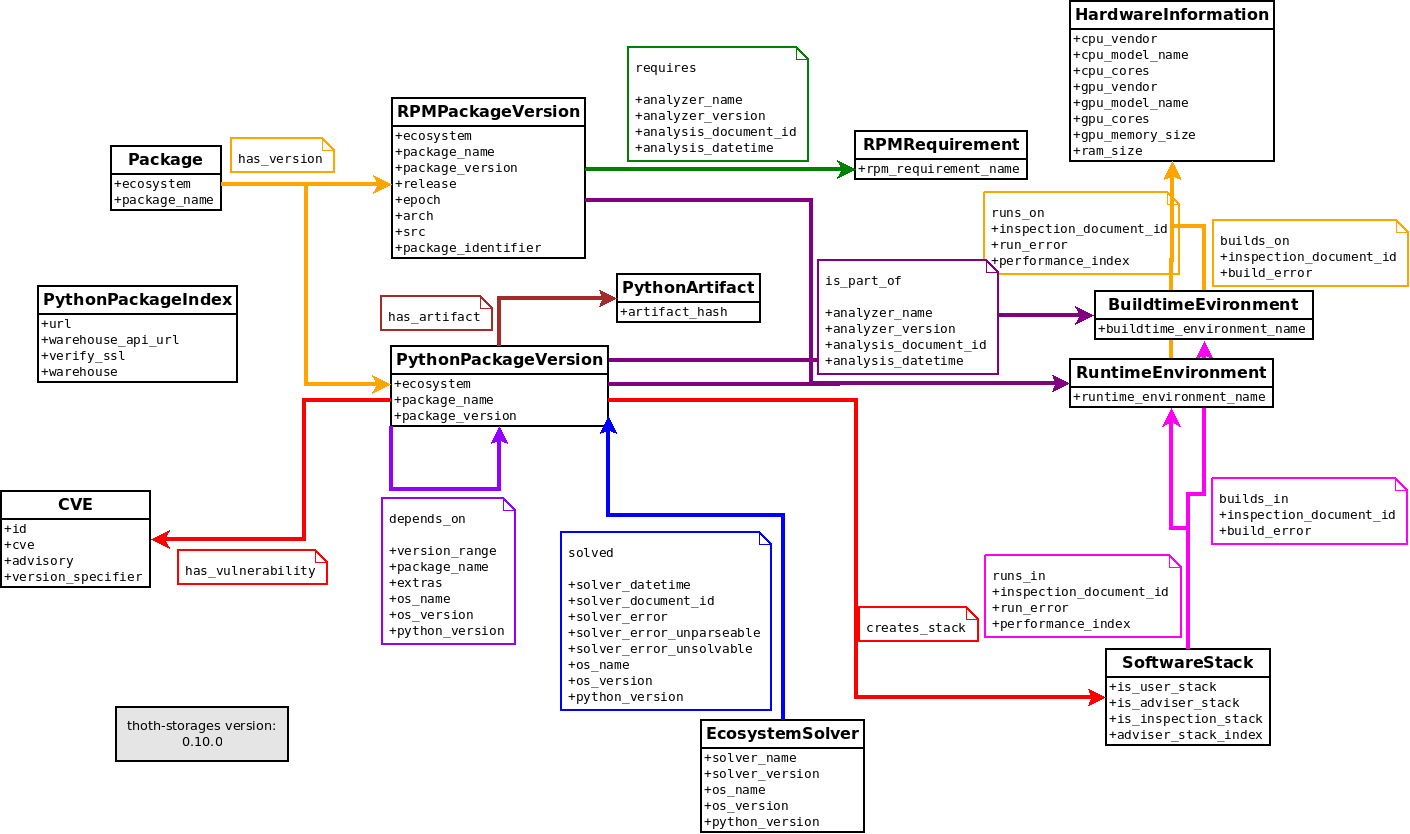
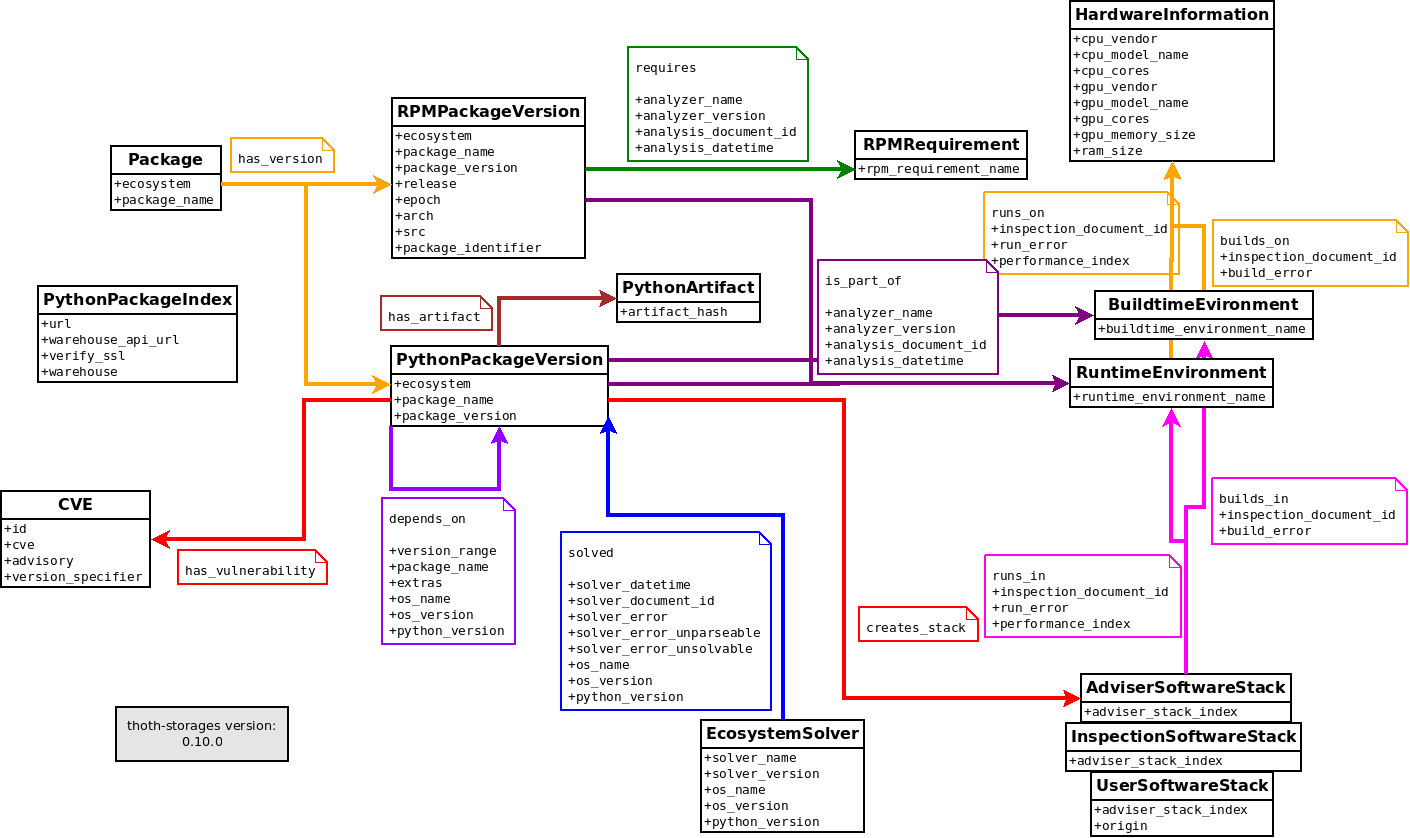
Distinguish different software stacks by their types

diff --git a/thoth/storages/graph/janusgraph.py b/thoth/storages/graph/janusgraph.py
@@ -71,7 +71,10 @@ from .models import RPMRequirement
 from .models import RuntimeEnvironment
 from .models import HardwareInformation
 from .models import Solved
-from .models import SoftwareStack
+from .models import AdviserSoftwareStack
+from .models import InspectionSoftwareStack
+from .models import UserSoftwareStack
+from .models import SoftwareStackBase
 from .models import CreatesStack
 
 # from .utils import enable_edge_cache
@@ -409,7 +412,7 @@ class GraphDatabase(StorageBase):
 
         return query
 
-    def get_software_stacks(self, packages: typing.List[tuple]) -> typing.List[SoftwareStack]:
+    def get_software_stacks(self, packages: typing.List[tuple]) -> typing.List[SoftwareStackBase]:
         """Get all stacks that include the given set of packages.
 
         Packages in stacks returned are superset of packages in the original set of
@@ -879,7 +882,7 @@ class GraphDatabase(StorageBase):
             is_adviser_stack: bool,
             is_inspection_stack: bool,
             adviser_stack_index: int = None
-    ) -> SoftwareStack:  # Ignore PyDocStyleBear
+    ) -> SoftwareStackBase:  # Ignore PyDocStyleBear
         """Create a software stack inside graph database from a Pipfile.lock."""
         only_one_stated = sum((
             int(is_user_stack),
@@ -895,10 +898,29 @@ class GraphDatabase(StorageBase):
                 "Index of adviser stack is allowed only for adviser stacks (is_adviser_stack should be set to True)"
             )
 
-        if is_adviser_stack is True and adviser_stack_index is None:
-            raise ValueError(
-                "Adviser stack index has to be set in case of adviser stacks"
-            )
+        software_stack_properties = {
+            "document_id": document_id
+        }
+        software_stack_class = None
+
+        if is_adviser_stack is True:
+            if adviser_stack_index is None:
+                raise ValueError(
+                    "Adviser stack index has to be set in case of adviser stacks"
+                )
+
+            software_stack_class = AdviserSoftwareStack
+            software_stack_properties["adviser_stack_index"] = adviser_stack_index
+
+        if is_user_stack:
+            # TODO: state origin in software stack properties.
+            software_stack_class = UserSoftwareStack
+
+        if is_inspection_stack:
+            software_stack_class = InspectionSoftwareStack
+
+        if software_stack_class is None:
+            raise ValueError("Unknown software stack type - should be at least one of user, inspection, adviser")
 
         def get_index_url(index_name: str):
             for source_index in pipfile_locked["_meta"]["sources"]:
@@ -927,13 +949,7 @@ class GraphDatabase(StorageBase):
             )
             python_packages.append(python_package_version)
 
-        software_stack = SoftwareStack.from_properties(
-            document_id=document_id,
-            is_user_stack=is_user_stack,
-            is_adviser_stack=is_adviser_stack,
-            is_inspection_stack=is_inspection_stack,
-            adviser_stack_index=adviser_stack_index,
-        )
+        software_stack = software_stack_class.from_properties(**software_stack_properties)
         software_stack.get_or_create(self.g)
 
         for python_package_version in python_packages:

diff --git a/thoth/storages/graph/models.py b/thoth/storages/graph/models.py
@@ -110,23 +110,34 @@ class BuildtimeEnvironment(VertexBase):
     # TODO: capture hashes of layers to be precise?
 
 
-class SoftwareStack(VertexBase):
-    """A software stack crated by packages in specific versions."""
-    # Only one of the following can be set at one time.
-    # That also means a SoftwareStack vertex with same document_ids can differ if is_adviser_stack
-    # and if is_user_stack is used.
-    is_user_stack = VertexProperty(properties.Boolean)
-    is_adviser_stack = VertexProperty(properties.Boolean)
-    is_inspection_stack = VertexProperty(properties.Boolean)
+class SoftwareStackBase(VertexBase):
+    """A software stack crated by packages in specific versions.
 
+    This is just a base class for creating software stack instances inside graph database.
+    See specific software stack types for specific software stacks we are interested in.
+    """
+    # If a user stack, document id points to adviser document that introduced the stack.
+    # If an adviser stack, document_id points to adviser document that introduced the stack.
+    # If an inspection stack, document_id points to inspection document that introduced the stack.
+    document_id = VertexProperty(properties.String)
+
+
+class AdviserSoftwareStack(SoftwareStackBase):
+    """A software stack as produced by adviser (the output of recommendation engine)."""
     # As adviser can output multiple stacks, this property states the index in
     # the resulting adviser document if is_adviser stack is set to True.
     adviser_stack_index = VertexProperty(properties.Integer, default=None)
 
-    # If is_user_stack is set to True, document id points to adviser document that introduced the stack.
-    # If is_adviser_stack is set to True, document_id points to adviser document that introduced the stack.
-    # If is_inspection_stack is set to True, document_id points to inspection document that introduced the stack.
-    document_id = VertexProperty(properties.String)
+
+class UserSoftwareStack(SoftwareStackBase):
+    """A software stack as used by a user (input for the recommendation engine)."""
+
+    # Origin of the software stack.
+    origin = VertexProperty(properties.String, default=None)
+
+
+class InspectionSoftwareStack(SoftwareStackBase):
+    """A software stack which was used on Amun during inspection runs (e.g. as produced by dependency-monkey)."""
 
 
 class SoftwareStackObservation(VertexBase):
@@ -332,7 +343,9 @@ ALL_MODELS = frozenset(
         RunsIn,
         RunsOn,
         RuntimeEnvironment,
-        SoftwareStack,
+        AdviserSoftwareStack,
+        UserSoftwareStack,
+        InspectionSoftwareStack,
         Solved,
         Observed,
         HardwareInformation,
